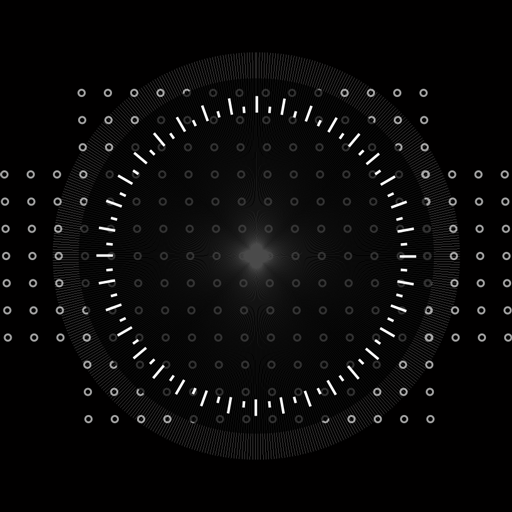
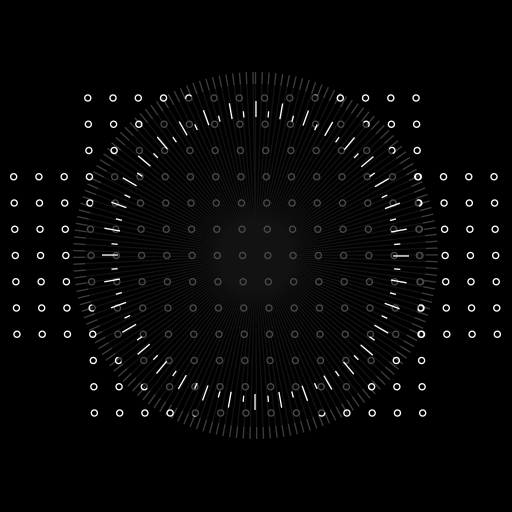
Fix scales on the the tool section

diff --git a/js/ToolPanel.js b/js/ToolPanel.js
@@ -37,35 +37,36 @@ function createToolPanel(renderer, scale){
     function init(){
         var toolTexture = THREE.ImageUtils.loadTexture('images/tools-foreground.png', undefined, LOADSYNC.register() );
         var toolMaterial = new THREE.MeshBasicMaterial({map: toolTexture, transparent: true});
-        var toolGeometry = new THREE.PlaneBufferGeometry( 512 * scale, 512 * scale);
+        var toolGeometry = new THREE.PlaneBufferGeometry( 350 * scale, 350 * scale);
         toolPlane = new THREE.Mesh( toolGeometry, toolMaterial );
-        toolPlane.position.set(width/2 + 50, height/2 - 40, 1);
+        toolPlane.position.set(width/2 + 45 * scale, height/2 - 40 * scale, 1);
         toolPlane.scale.set(.6,.6,.6);
 
         panel.addToScene( toolPlane );
 
         var toolBGTexture = THREE.ImageUtils.loadTexture('images/tools-background.png', undefined, LOADSYNC.register() );
         var toolBGMaterial = new THREE.MeshBasicMaterial({map: toolBGTexture, transparent: true, opacity: .5});
-        var toolBGGeometry = new THREE.PlaneBufferGeometry( 512 * scale, 512 * scale);
+        var toolBGGeometry = new THREE.PlaneBufferGeometry( 350 * scale, 350 * scale);
         toolBGPlane = new THREE.Mesh( toolBGGeometry, toolBGMaterial );
-        toolBGPlane.position.set(width/2 + 50, height/2 - 40, 0);
+        toolBGPlane.position.set(width/2 + 45 * scale, height/2 - 40 * scale, 0);
         toolBGPlane.scale.set(.6,.6,.6);
 
         panel.addToScene( toolBGPlane );
 
         var headerTexture = THREE.ImageUtils.loadTexture("images/tools-header.png", undefined, LOADSYNC.register() );
         var headerMaterial = new THREE.MeshBasicMaterial({map: headerTexture, depthTest: false, transparent: true});
-        var headerGeometry = new THREE.PlaneBufferGeometry( 134 * 1.2 * scale, 32 * 1.2 * scale);
+        var headerGeometry = new THREE.PlaneBufferGeometry( 134 * scale, 32 * scale);
         var headerPlane = new THREE.Mesh(headerGeometry, headerMaterial );
-        headerPlane.position.set(110, height - 100,5);
+        headerPlane.position.set(110 * scale, height - 100 * scale,5);
+        headerPlane.scale.set(.7,.7,.7);
         panel.addToScene(headerPlane);
         
         var selectorTexture = THREE.ImageUtils.loadTexture("images/tools-selector.png", undefined, LOADSYNC.register() );
         var selectorMaterial = new THREE.MeshBasicMaterial({map: selectorTexture, depthTest: false, transparent: true});
         var selectorGeometry = new THREE.PlaneBufferGeometry( 310 * scale, 200 * scale);
         var selectorPlane = new THREE.Mesh(selectorGeometry, selectorMaterial );
-        selectorPlane.position.set(210, height/2 - 24,5);
-        selectorPlane.scale.set(.8, .8, .8);
+        selectorPlane.position.set(160 * scale, height/2 - 32 * scale,5);
+        selectorPlane.scale.set(.5, .5, .5);
         panel.addToScene(selectorPlane);
 
     }
